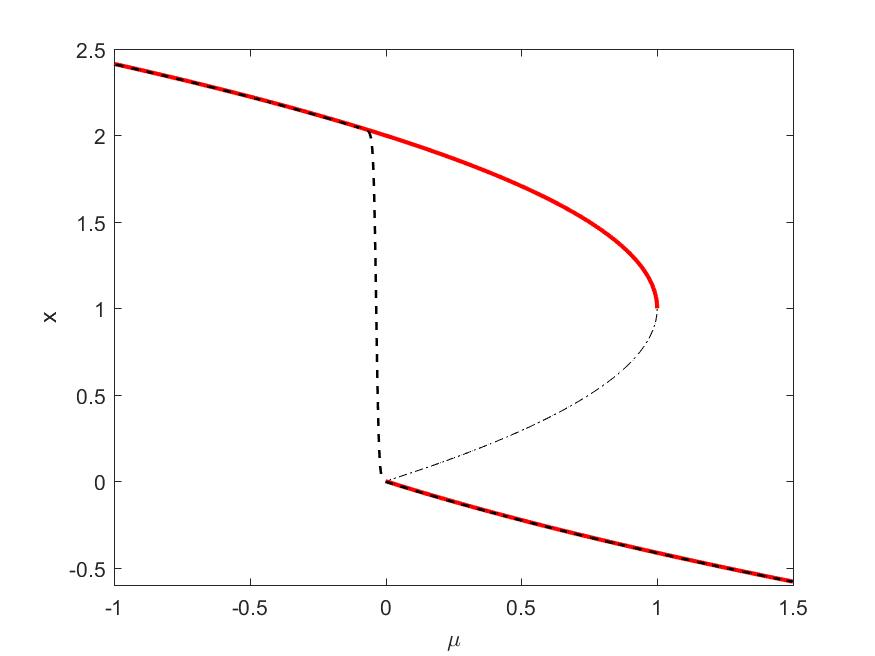
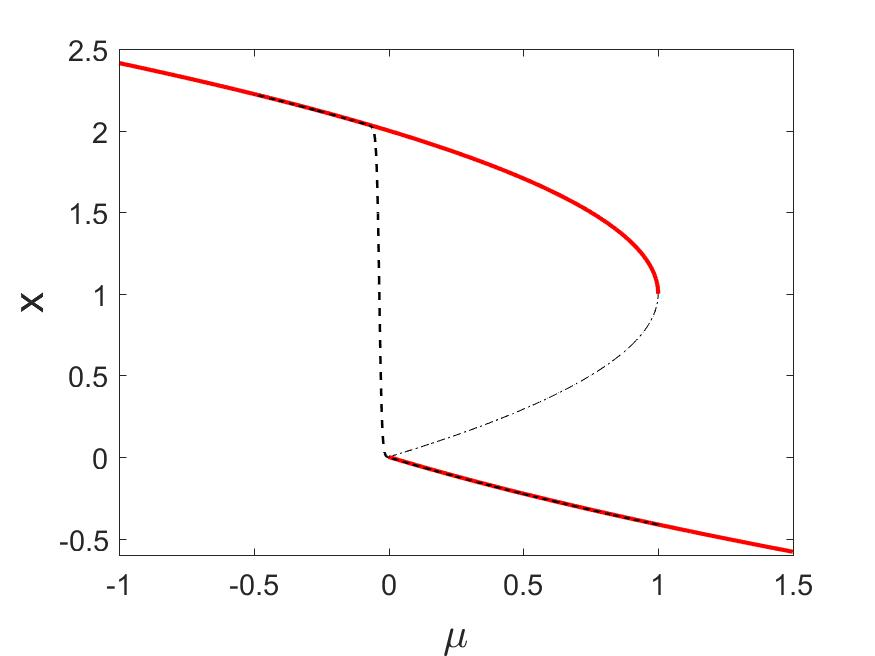
OneD_slowosc update

diff --git a/Complete/OneD_matlab/Slow_Osc/oneD_slow_osc.m b/Complete/OneD_matlab/Slow_Osc/oneD_slow_osc.m
@@ -1,11 +1,12 @@
 %Full analysis of one-dimensional slow+osc
 
 %Load function folder
-addpath('C:\Users\codyg\Desktop\MSc_Thesis\Cody\trunk\Complete\Functions')
+addpath('C:\Users\codyg\Desktop\Thesis-Master\trunk\Complete\Functions')
+cd('C:\Users\codyg\Desktop\Thesis-Master\trunk\Complete\Graphs\OneD_slowosc')
 
 %Initial values and set up
 eps = .01;
-lambda = 2.5;
+lambda = 1.6;
 Omega = eps^(-lambda);
 A = 1;
 criteria=.2;
@@ -16,7 +17,7 @@ B = eps^(lambda-1) * abs(A);
 
 %Numerics
 h = min(.01, 2 * pi/(10 * Omega));
-start = 1.5; stop = -1;
+start = 1; stop = -.5;
 time = abs(stop - start)/eps;
 muInit = start;
 yInit = 1-sqrt(1 + muInit);
@@ -31,101 +32,23 @@ muDE = @(t, y, mu)(-eps);
 %Comparison
 truetip = mu(find(y < criteria, 1, 'last'));
 region1boundary = 2 * abs(A)/Omega;
-region2boundary = muosc + mudel * (pi * B/2)^(1/3);
-slowtip = .5 * eps * log(eps);
-
-%Inner Asymptotic solution
-
-m = zeros(1, length(mu));
-
-%Here I distinguish between the osc Dom and slow Dom
-outer = zeros(1, length(mu));
-case1 = zeros(1, length(mu));
-    
-if lambda < 1.5
-    case2 = zeros(1, length(mu));
-    for i = 1:length(m)
-       %Contains the cases from exploding, chose an artificial lower
-       %threshold
-         if mu(i) > region2boundary+eps
-               m(i) = mu(i);
-         else
-               m(i) = 0;
-         end
-       outer(i) = 1 - sqrt(1 + m(i)) - eps/(4 * (1 + m(i)));
-       case1(i) = -m(i)/2;
-       inside = (2/(pi * B))^(1/3) * (m(i)/eps - muosc/eps);
-       case2(i) = eps*(pi * B/2)^(2/3) * airy(1, inside)/airy(inside);
-    end
-    abserror = abs(truetip - region2boundary);
-    estimated_tipping = region2boundary;
+if lambda<1.5
+    tipping = muosc + mudel * (pi * B/2)^(1/3);
 else
-    case3 = zeros(1, length(mu));
-    for i = 1:length(m)
-        %Contains the cases from exploding, chose an artificial lower
-       %threshold
-        if mu(i) > eps * log(eps)/2
-             m(i) = mu(i);
-        else
-             m(i) = 0;
-        end 
-        outer(i) = 1 - sqrt(1 + m(i)) - eps/(4 * (1 + m(i)));
-        case1(i) = -m(i)/2;
-        case3(i) = eps * exp(-2 * m(i)/eps) + m(i)/2 - 1/4 * eps;
-    end
-    abserror=abs(truetip - slowtip);
-    estimated_tipping = slowtip;
+    tipping = .5 * eps * log(eps);
 end
 
-%Forms the correct inner by pairing the right cases together;
-asymp = zeros(1, length(mu));
-
-for i = 1:length(mu)
-    %Builds outer region
-    if mu(i) > 1
-        asymp(i) = outer(i) - eps^lambda * A * cos(-eps^(-lambda - 1) * mu(i));
-    else
-        %Builds region 1
-        if mu(i) > region1boundary
-            asymp(i) = case1(i) - eps^lambda * A * cos(-eps^(-lambda - 1) * mu(i));
-        else
-            %Builds region 2
-            if lambda < 1.5
-                asymp(i) = case2(i);
-            else
-                asymp(i) = case3(i);
-            end
-        end
-    end
-end
 
 %Create region dividers
 region1x = region1boundary * ones(1, 1000);
-region2x = region2boundary * ones(1, 1000);
-tipping = estimated_tipping * ones(1,1000);
+tippingvec = tipping * ones(1,1000);
 truetipvec = truetip * ones(1, 1000);
 yvec = linspace(min(y), max(y), 1000);
 
 
-%Numerics vs Asymptotics
-figure(3)
-plot(mu, y, 'k--')
-hold on
-plot(mu, asymp, 'r')
-plot(region1x, yvec, 'g')
-plot(region2x, yvec, 'b')
-plot(tipping, yvec, 'r-.')
-plot(truetipvec, yvec, 'k--')
-
-pos = [.6 .2 .5 .5];
-str = {
-   ['\lambda=' num2str(lambda)], ['\epsilon= ' num2str(eps)],...
-   ['\Omega= ' num2str(Omega)], ['A= ' num2str(A)],...
-   ['Abs. Err.= ' num2str(abserror)], ['Tip. Crit > ' num2str(criteria)]};
-annotation('textbox', pos, 'String', str, 'FitBoxToText', 'on');
-
 
 %The bifurcation diagram
+close(figure(1))
 figure(1)
 
 %plots the underlying bifurcation diagram
@@ -141,31 +64,25 @@ set(h3, 'color', 'r', 'linewidth', 2)
 plot(mu, y, 'k--', 'linewidth', 1.2)
 
 %Label the graph
-xlabel('\mu'); ylabel('x')
+set(gca,'fontsize',14)
+xlabel('\mu','fontsize',20); ylabel('x','fontsize',20)
 title('')
 
-cd('C:\Users\codyg\Desktop\MSc_Thesis\Cody\trunk\Complete\Graphs\OneD_slowosc')
-print('-f1','slowosc_bif_diagram','-djpeg')
+if lambda> 1.5
+    print('-f1','slowosc_bif_diagram_large','-djpeg')
+else
+    print('-f1','slowosc_bif_diagram_small','-djpeg')
+end
 
 
 %zoom
-plot(region1x, yvec, 'g')
-plot(region2x, yvec, 'b')
-plot(truetipvec, yvec, 'k--')
-xlim([-.1 .5])
-ylim([-.3 .5])
-print('-f1', 'slowosc_bif_diagram_zoom','-djpeg')
-
-%Print a report of frequency and tipping comparison values
-fileID = fopen('slowosc_bif_information.txt','w');
-fprintf(fileID,'The actual tipping: %f\n Estimate: %f\n', truetip, region2boundary);
-fprintf(fileID,'The slow tip: %f\n', slowtip);
-fprintf(fileID,'The osc tip: %f\n', muosc);
-fprintf(fileID,'Absolute error: %f\n', abserror);
-fprintf(fileID,'Tipping Criteria: >%f\n', criteria);
-fprintf(fileID,'epsilon=%f\n',eps);
-fprintf(fileID,'lambda=%f\n',lambda);
-fprintf(fileID,'A=%f\n',A);
-fprintf(fileID,'Omega=%f',Omega);
-fclose(fileID);
-
+plot(region1x, yvec, 'g--','linewidth',2)
+plot(tippingvec, yvec, 'b--','linewidth',2)
+plot(truetipvec, yvec, 'k','linewidth',2)
+xlim([tipping-.01 region1boundary+.05])
+ylim([-.1 .3])
+if lambda>1.5
+    print('-f1', 'slowosc_bif_diagram__large_zoom','-djpeg')
+else
+    print('-f1', 'slowosc_bif_diagram__small_zoom','-djpeg')
+end

diff --git a/Complete/OneD_matlab/Slow_Osc/lambda_compare.m b/Complete/OneD_matlab/Slow_Osc/lambda_compare.m
@@ -1,17 +1,15 @@
 %Full analysis of one-dimensional slow+osc
 
 %Load function folder
-addpath('C:\Users\codyg\Desktop\MSc_Thesis\Cody\trunk\Complete\Functions')
-cd('C:\Users\codyg\Desktop\MSc_Thesis\Cody\trunk\Complete\Graphs\OneD_slowosc')
-
-
+addpath('C:\Users\codyg\Desktop\Thesis-Master\trunk\Complete\Functions')
+cd('C:\Users\codyg\Desktop\Thesis-Master\trunk\Complete\Graphs\OneD_slowosc')
 
 % Set value to 1 for only lambda figure, 2 for epsilon, and 3 for both
 
-value = 1;
+value = 2;
 
 %Hyperparameters
-n=30;
+n=25;
 criteria=.2;
 A = 1;
 
@@ -50,7 +48,7 @@ if value == 1 || value == 3
     [~, y, mu] = RK2sys(yDE, muDE, yInit, muInit, 0, time, h);
 
     %Comparison
-    truetipvec(i) = mu(find(y < criteria, 1, 'last'));
+    truetipvec(i) = mu(find(y < criteria, 1));
     estimatedtipvec(i) = muosc + mudel * eps^((lambda-1)/3)*(pi * abs(A)/2)^(1/3);
     slowtipvec(i) = eps*log(eps)/2;
     end
@@ -65,17 +63,14 @@ if value == 1 || value == 3
     figure(1)
     plot(lambdavec, truetipvec, 'r*')
     hold on
-    plot(lambdavec, estimatedtipvec, 'k')
-    plot(lambdavec, slowtipvec, 'b--')
+    plot(lambdavec, estimatedtipvec, 'k','linewidth',2)
+    plot(lambdavec, slowtipvec, 'b--','linewidth',2)
     %plot(xvec,yvec,'r')
-    xlabel('\lambda'); ylabel('\mu');
+    set(gca,'fontsize',14)
+    xlabel('\lambda','fontsize',20);
+    ylabel('\mu','fontsize',20);
     xlim([lower upper])
 
-    fileID = fopen('slowosc_lambdacomp_information.txt','w');
-    fprintf(fileID,'epsilon=%f\n',lambda);
-    fprintf(fileID,'A=%f\n',A);
-    fprintf(fileID,'tipping criteria=%f\n',criteria);
-    fclose(fileID);
     print('-f1','slowosc_lambdacomp','-djpeg')
 end
 
@@ -87,7 +82,7 @@ if value == 2 || value == 3
     slowtipvec = zeros(1,n);
 
     %Set up for an example of each case
-    lambdavec = [.5, 1.4];
+    lambdavec = [.8, 1.3];
     delete('slowosc_epscomp_information.txt')
     for k=2:3
         lambda = lambdavec(k-1);
@@ -119,20 +114,15 @@ if value == 2 || value == 3
             slowtipvec(i) = eps * log(eps)/2;
         end
 
-        fileID = fopen('slowosc_epscomp_information.txt','a');
-        fprintf(fileID,'Case= %f\n',k);
-        fprintf(fileID,'lambda=%f\n',lambda);
-        fprintf(fileID,'A=%f\n',A);
-        fprintf(fileID,'tipping criteria=%f\n \n',criteria);
-        fclose(fileID);
-
         close(figure(k))
         figure(k)
         plot(epsvec, truetipvec, 'r*')
         hold on
-        plot(epsvec, estimatedtipvec, 'k')
-        plot(epsvec, slowtipvec, 'b--')
-        xlabel('\epsilon'); ylabel('\mu')
+        plot(epsvec, estimatedtipvec, 'k','linewidth',2)
+        plot(epsvec, slowtipvec, 'b--','linewidth',2)
+        set(gca,'fontsize',14)
+        xlabel('\epsilon','fontsize',20)
+        ylabel('\mu','fontsize',20)
     end
         print('-f2', 'slowosc_epscomp_case2', '-djpeg')
         print('-f3', 'slowosc_epscomp_case3', '-djpeg')
